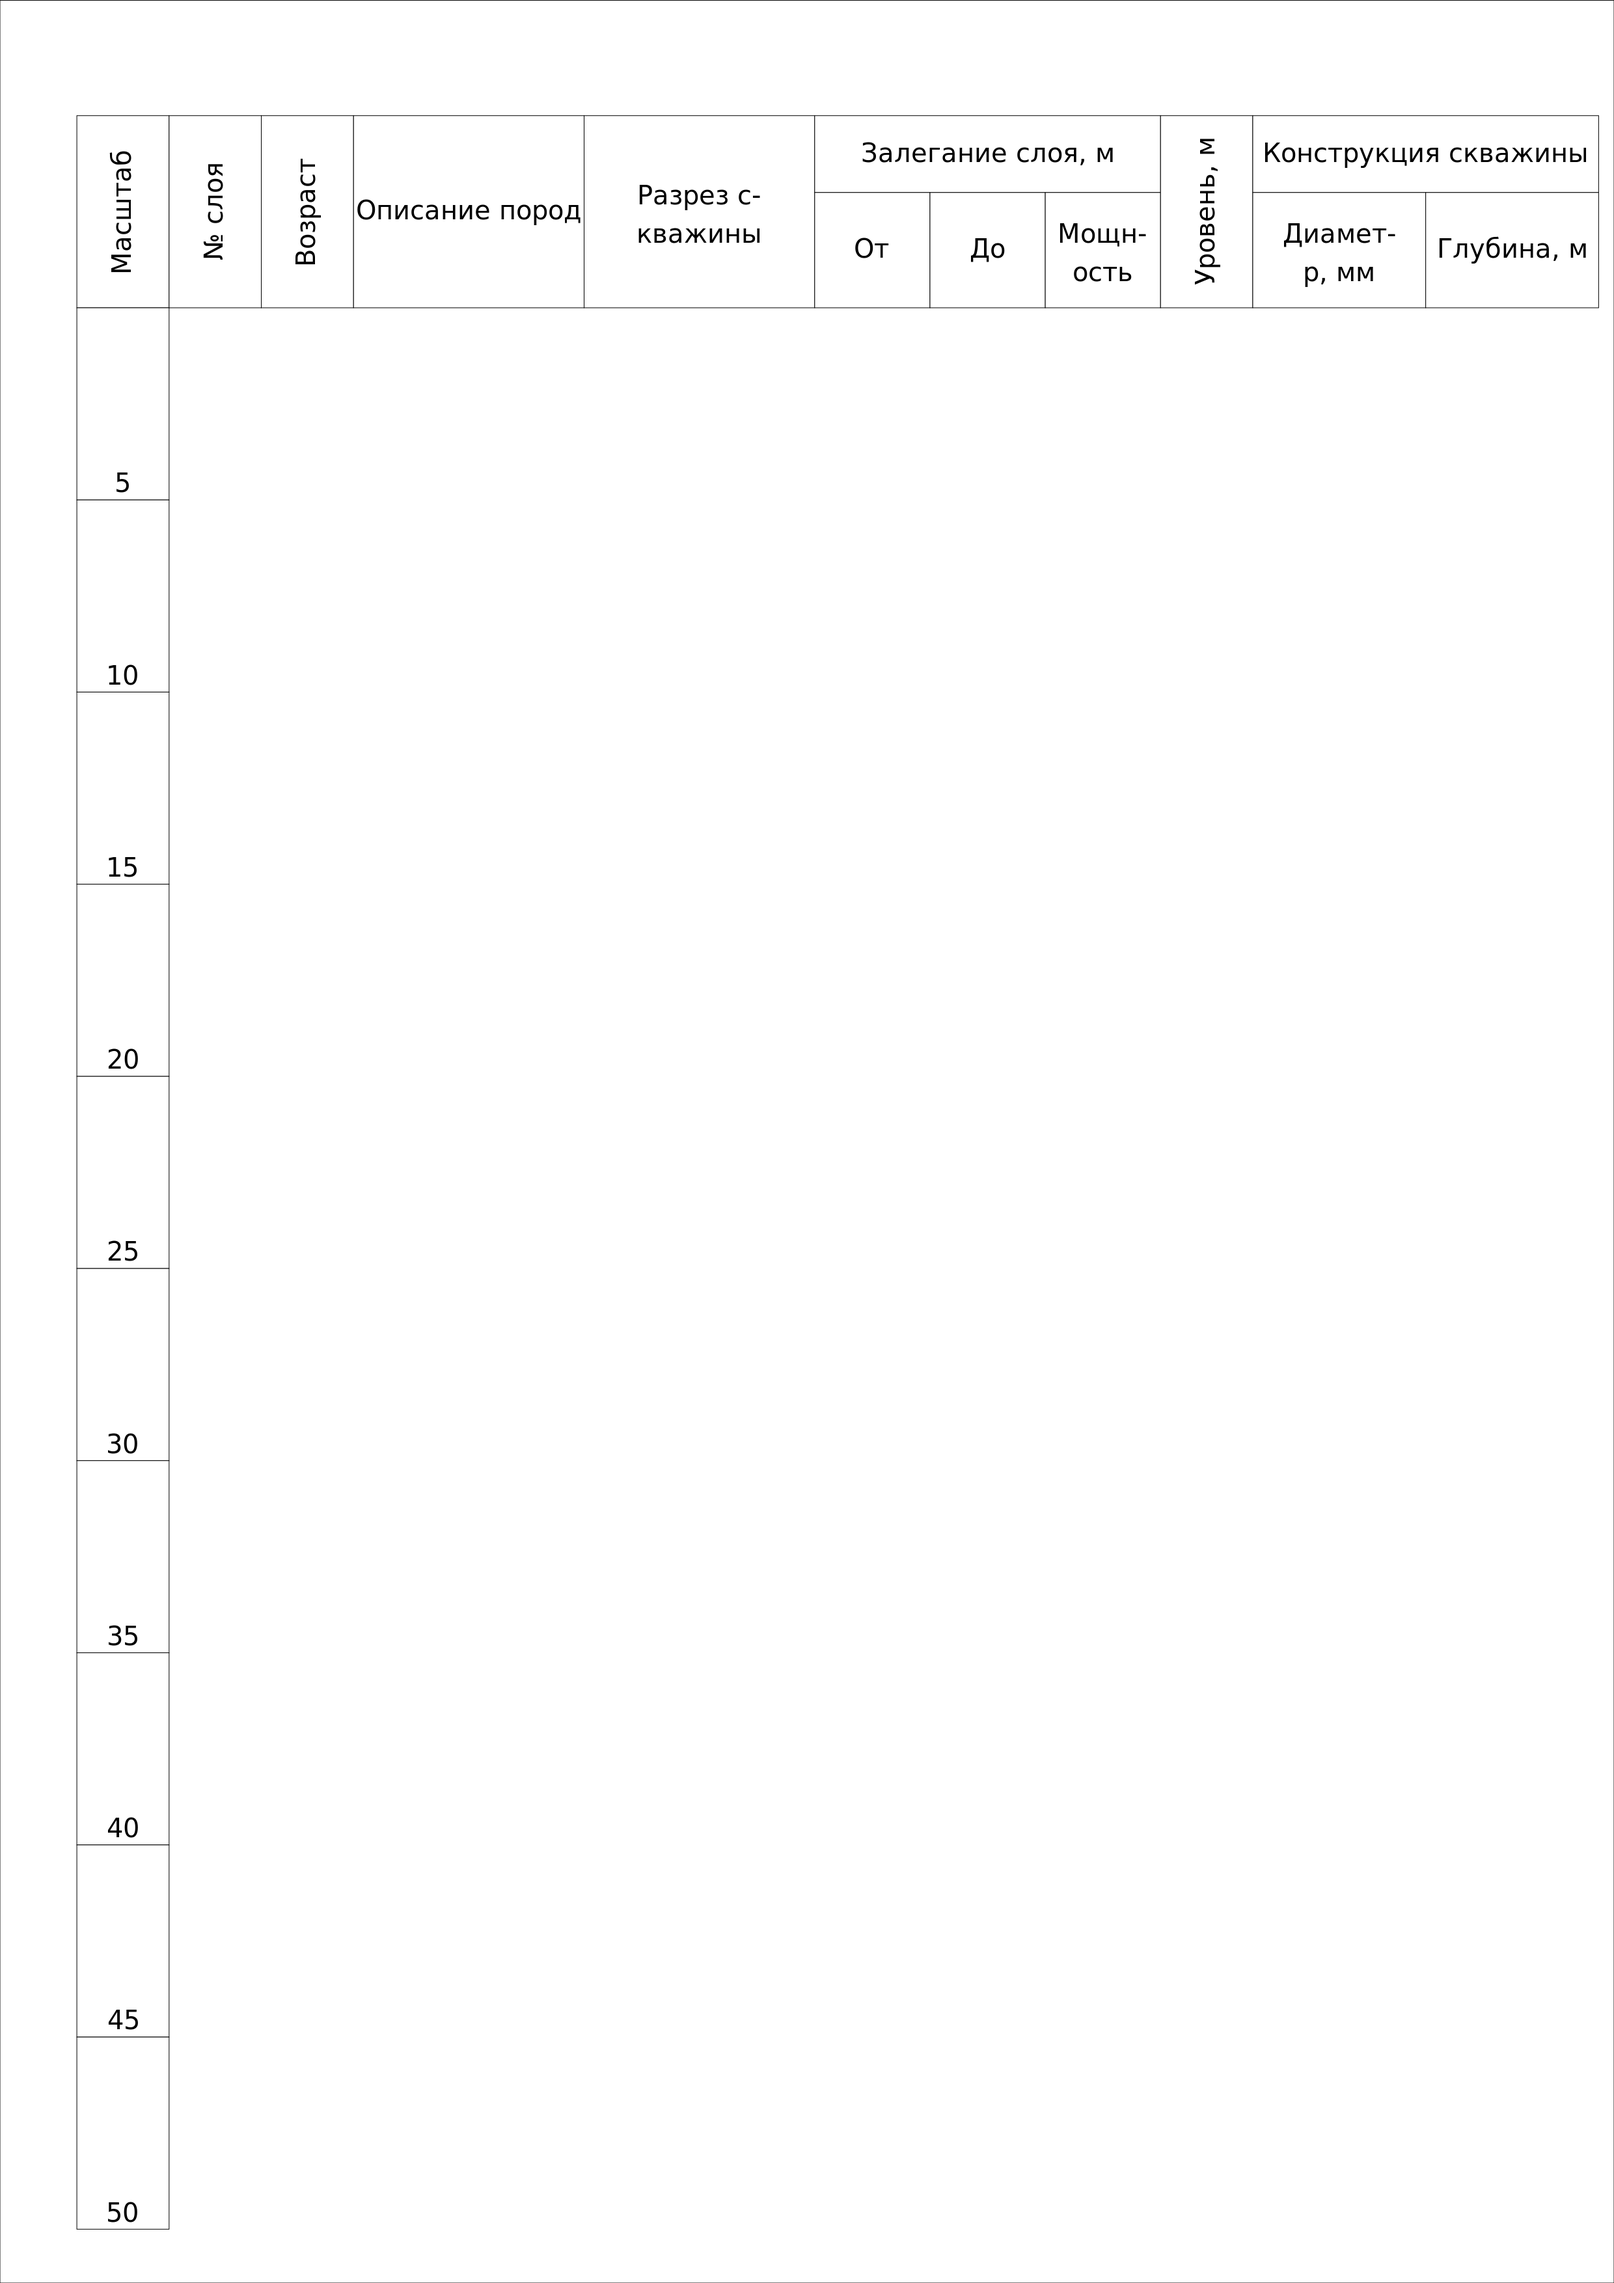
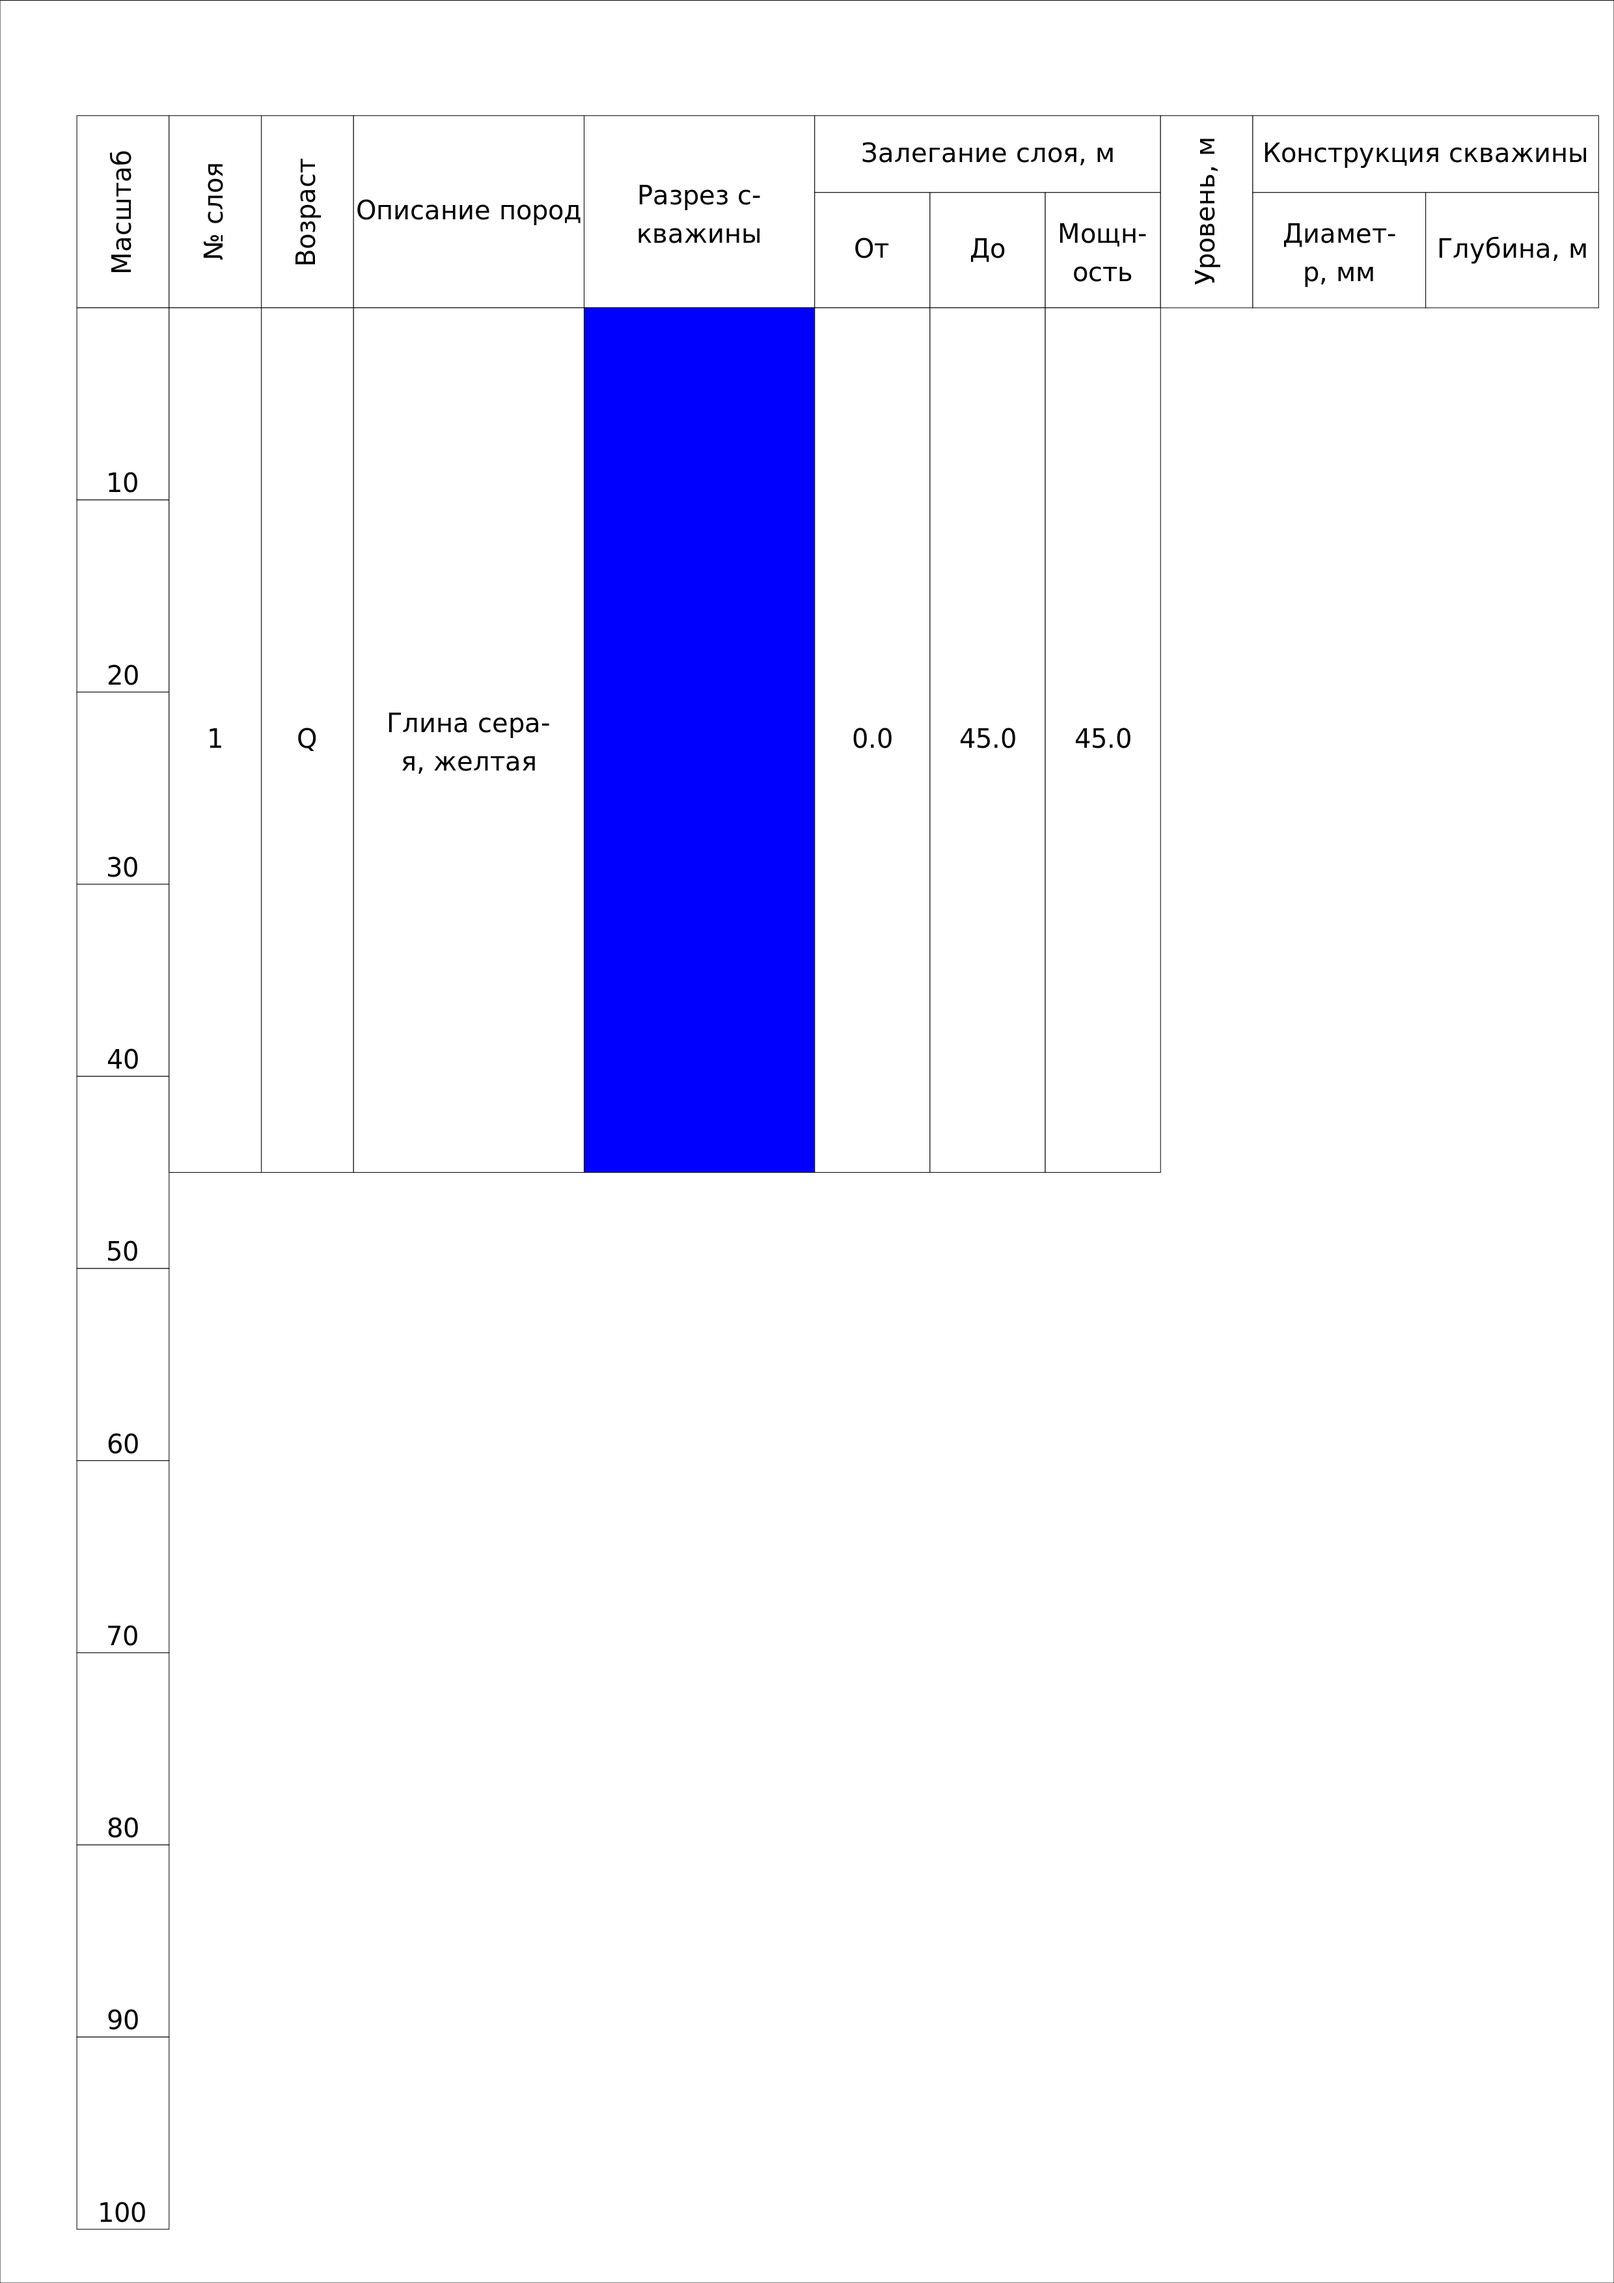
add ase for layer drawing

Changed region(s): [[0.2484, 0.1243, 0.5278, 0.5282], [0.0621, 0.9632, 0.0931, 0.9943]]

diff --git a/drawing/main.py b/drawing/main.py
@@ -6,26 +6,31 @@ width, height = 2480, 3508
 # коэффициент пересчета мм -> % от общей ширины/высоты (2480/210 = 11,809 (1 мм в пикселях))
 # 2480/100 = 24,8 пикселя в 1%, соответственно 1 мм = 11,809/24,8 = 0,4761% (по y)
 # 3508/100 = 35,08 пикселя в 1%, соответственно 1 мм = 11,809/35,08 = 0,3366% (по x)
-# общая высота рисунка - 270 мм
+# общая высота рисунка (самой скважины) - 250 мм, названий столбцов - 25 мм
 mm_x = 0.004761
 mm_y = 0.003366
 koef = 2480/210
-line = 0.001
-
+# шаблон данных для слоев
+data = {
+    1:{'id': 1, 'name':'Q', 'thick': 45.0, 'sediments': 'Глина серая, желтая'},
+    2:{'id': 2, 'name':'J3', 'thick': 10, 'sediments': 'Песок мелко-среднезернистый'},
+    3:{'id': 3, 'name':'J3ox-c', 'thick': 15, 'sediments': 'Глина'},
+    4:{'id': 4, 'name':'C3g-P1a', 'thick': 25, 'sediments': 'Известняк'},
+    }
 
 def main():
     d = draw.Drawing(width, height, origin=(0, 0), displayInline=False)
     # Подложка
-    r_0 = draw.Rectangle(0, 0, 210*koef, 297*koef,
-                         fill='white', stroke='black')
-    d.append(r_0)
+    r = draw.Rectangle(0, 0, 210*koef, 297*koef,
+                       fill='white', stroke='black')
+    d.append(r)
     header(d)
-    scale(d, 48)
+    scale(d, 95)
+    layers(d, 95, data)
     d.savePng('example.png')
 
-# Создание наименований таблицы
 
-
+# Создание таблицы с наименованием столбцов
 def header(d):
     # d x1, y1, x2, y2
     # создание заголовка таблицы (надо немного поправить перенос строк, для таблицы
@@ -77,8 +82,14 @@ def scale(d, well_depth):
 
 # создание прямоугольника с текстом
 def rectangle(d, x, y, x1, y1, text, direction):
-    r = draw.Rectangle(x*koef, y*koef, x1*koef, y1*koef,
-                       fill='white', stroke='black')
+    # f - заливать, h - с горизонтальным текстом, v - вертикальным
+    # заготовка для добавления заливки
+    if direction == 'f':
+        r = draw.Rectangle(x*koef, y*koef, x1*koef, y1*koef,
+                        fill='blue', stroke='black')
+    else:
+        r = draw.Rectangle(x*koef, y*koef, x1*koef, y1*koef,
+                        fill='white', stroke='black')
     d.append(r)
     # создание переноса строки если надо
     if len(text) <= x1 / 2.1 or direction == 'v':
@@ -94,8 +105,8 @@ def rectangle(d, x, y, x1, y1, text, direction):
                            close=False,
                            stroke='white')
         d.append(draw.Text([text], 40, path=p, text_anchor='middle'))
-    else:
-        number_str = math.ceil(abs((len(text)*2.1)/y1))
+    elif direction == 'h':
+        number_str = math.ceil(abs((len(text)*2.1)/x1))
         i = 0
         # Первоначальное положение строки
         step = y1 / number_str
@@ -124,6 +135,46 @@ def rectangle(d, x, y, x1, y1, text, direction):
                        stroke='white')
         d.append(draw.Text([text[text_start_step:]],
                  40, path=p, text_anchor='middle'))
+
+# создание слоя
+def layers(d, well_depth, data):
+    # выбираем масштаб
+    if well_depth <= 50:
+        section = 5
+    elif well_depth > 50 and well_depth <= 150:
+        section = 10
+    else:
+        section = 20
+    # у нас на 250 мм на листе а4 растянута полная глубина скважин с округлением
+    section_numbers = round((well_depth + (section/2))/section)
+    # смещение по x: (12, 12, 12, 30, 30, 15, 15, 12, 22.5, 22.5)
+    # деля 250 на округленную глубину скважины - получаем сколько в мм метров
+    scale_m = (250/(section_numbers * section))
+    # стартовые положения. Тут будет начало цикла
+    h_start = 0.0
+    x_start = 10 + 12
+    y_start = (297 - 15 - 25 - data[1]['thick']*scale_m)
+    rectangle(d, x_start, y_start, 12, data[1]['thick']*scale_m, str(data[1]['id']), 'h')
+    x_start += 12
+    rectangle(d, x_start, y_start, 12, data[1]['thick']*scale_m, data[1]['name'], 'h')
+    x_start += 12
+    rectangle(d, x_start, y_start, 30, data[1]['thick']*scale_m, data[1]['sediments'], 'h')
+    x_start += 30
+    rectangle(d, x_start, y_start, 30, data[1]['thick']*scale_m, 'Здесь будет ссылка на заливку', 'f')
+    x_start += 30
+    # подумать как убрать подписи вниз (к низу прямоугольника)
+    rectangle(d, x_start, y_start, 15, data[1]['thick']*scale_m, str(h_start), 'h')
+    x_start += 15
+    h_start += data[1]['thick']
+    rectangle(d, x_start, y_start, 15, data[1]['thick']*scale_m, str(h_start), 'h')
+    x_start += 15
+    rectangle(d, x_start, y_start, 15, data[1]['thick']*scale_m, str(data[1]['thick']), 'h')
+    # завершение цикла отрисовки геологии
+
+
+
+
+
 
 
 if __name__ == "__main__":

diff --git a/drawing/test.py b/drawing/test.py
@@ -1,3 +1,2 @@
-x = 50
-section_numbers = round((x+2.5)/5)
-print(section_numbers)
+print(len('Глина серая, желтая'))
+print(30/2.1)
